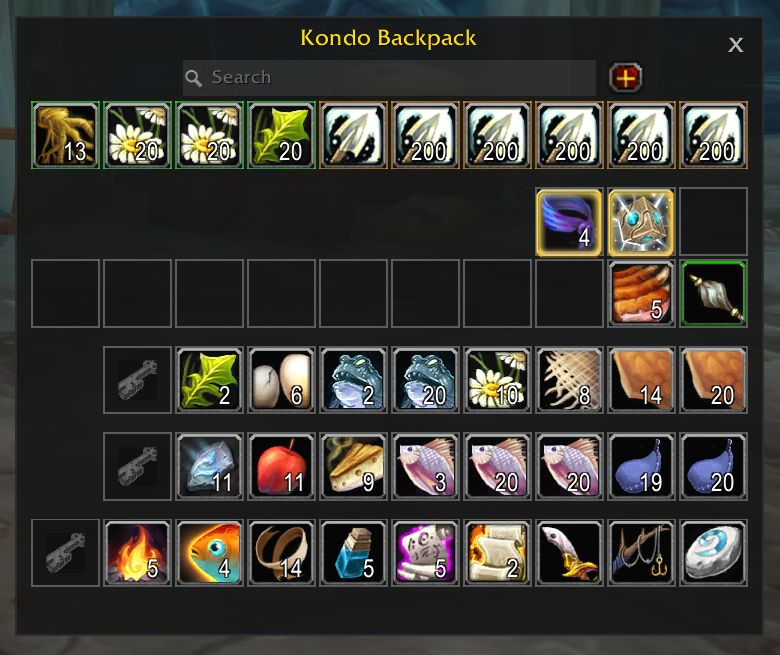
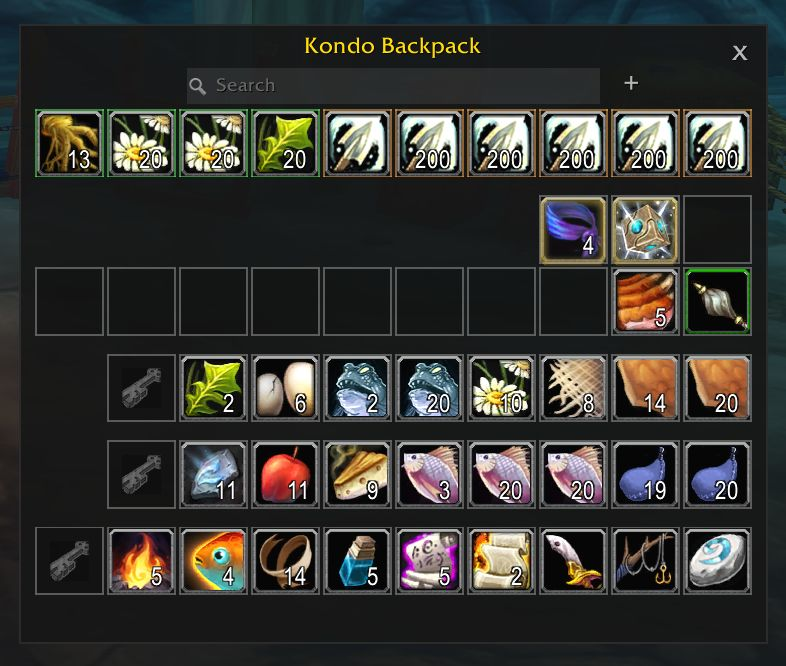
README rewritten for the release: the idea, what you get, settings
Leads with the point of the addon -- it keeps the stock Classic backpack
and gives you better tools to tidy it yourself; nothing moves unless you
move it, no rules, no automation. Lists the shipped features (stock
replacement, special-bag row and tints, drop guidance, quest pulse,
search, two themes, Edit Mode, combat-safe cells), the short settings
table, slash commands, and marks the bank as not yet touched.

diff --git a/README.md b/README.md
@@ -4,18 +4,44 @@
 |---|---|
 | ![KondoBags, classic theme: the stock bag look, incoming grid above, a Keep row led by a lock cell below](Assets/KondoBags_Screenshot_Classic.jpg) | ![KondoBags, modern theme: flat dark panel, square cells, same grid and Keep row](Assets/KondoBags_Screenshot_Modern.jpg) |
 
-A bag addon for World of Warcraft that organizes your backpack the way a tidy person would, without you writing a single rule.
+A backpack for World of Warcraft that lets you organize your items neatly, the way you would in the real world — or at least the way Marie Kondo would.
 
-The window is the stock bag grid plus **Keep**:
+## The idea
 
-- **Incoming** — everything you loot, drawn exactly where the stock bag would draw it. New loot opens a new cell; nothing already there moves.
-- **Keep** — one or more named rows at the bottom, each led by a lock cell. Drop an item on a lock to keep it; drag it back up to let it go; Shift-drag to choose its spot. Hearthstone starts there.
+Most bag addons organize *for* you: they sort by category, by quality, by rules you write and then forget. KondoBags does the opposite. It keeps the one backpack you already know — the stock Classic grid, same art, same loot order — and gives you **better tools to tidy it yourself**. Nothing moves unless you move it. There are no rules to write and no automation to fight. What you put somewhere stays there.
 
-The `+` button adds another Keep row. Everything the addon remembers about how you sort is **per character**.
+The window is the stock bag plus **Keep**:
 
-Position, scale and column count of the window are handled through **Edit Mode**.
+- **Incoming** — everything you loot, drawn exactly where the stock bag would draw it. New loot fills the next free cell; nothing already there moves.
+- **Keep** — one or more rows at the bottom, each led by a lock cell. Drop an item on a lock to keep it; drag it back up to let it go; hold **Shift** while dragging to choose its exact spot. Your Hearthstone starts there.
 
-KondoBags **replaces** the stock bag windows: `B`, the bag-bar buttons, vendors, mail and the bank all open it. There is no option to keep the stock bags alongside it; disable the addon to get them back.
+The `+` button next to the search box adds another Keep row; right-click a lock to remove one. Everything the addon remembers about how you sort is **per character**, so each character's backpack is its own.
+
+## What you get
+
+- **Replaces the stock bags.** `B`, the bag-bar buttons, vendors, mail, bank and auction house all open KondoBags; the Blizzard bag windows never show. No option to run both — disable the addon to get the stock bags back.
+- **Special bags in their own row.** Quiver, ammo pouch, herb, soul, enchanting, mining and other profession bags are drawn as one row above your items, with a colour tint per bag type. Empty cells show the equipped bag's own icon (or the item-type art, your choice).
+- **Drop guidance.** While you carry an item, special-bag cells that will not take it show a circle-X; occupied ones dim. General cells accept anything and are never marked.
+- **Quest items stand out.** Quest items get the stock yellow border (and the `!` for quest starters), gently pulsing so they catch the eye — on Classic Era too, where the stock bags hide it.
+- **Search** that dims everything but the match.
+- **Two themes.** *Classic* is the stock backpack look of whatever client you are on; *Modern* is a flat dark panel with square cells. Same grid, same Keep.
+- **Edit Mode.** Position, scale and column count live in Blizzard's Edit Mode (drag the frame; drag its corner grip to set columns). The window opens where the stock bags open on a fresh install.
+- **Combat-safe.** Item cells are Blizzard's own secure buttons, so right-click to use, drag, split, sell and trade all work in combat exactly as they do in the stock bags.
+
+## Settings
+
+Kept deliberately short. `Esc` › Options › AddOns › **Kondo Bags**, or `/kondo options`.
+
+| Setting | Where |
+|---|---|
+| Theme: Classic / Modern | Settings |
+| Tint special-bag slots by bag type | Settings |
+| Empty special-bag slots show the equipped bag's icon / item-type art | Settings |
+| Lock window position | Settings and the Edit Mode dialog |
+| Window position, scale, columns | Edit Mode |
+| Reset all settings (with confirm) | Settings, or `/kondo reset` |
+
+`/kondo` toggles the window. `/kondo status` prints version, provider and a summary of your bags.
 
 ## Clients
 
@@ -23,7 +49,7 @@ Classic Era / Hardcore and WoW: Forever are the tested targets. Other flavours a
 
 ## Status
 
-Alpha. See [`SPECS/00_KondoBags_Core.md`](SPECS/00_KondoBags_Core.md) for the design and milestone plan and [`SPECS/01_Stock_Bag_Replacement.md`](SPECS/01_Stock_Bag_Replacement.md) for how the stock bags are replaced. Current phase: **Phase L — live bags, step 5 (stock replacement)**.
+Alpha, in daily use by the author on Forever. See [`SPECS/00_KondoBags_Core.md`](SPECS/00_KondoBags_Core.md) for the design and [`SPECS/01_Stock_Bag_Replacement.md`](SPECS/01_Stock_Bag_Replacement.md) for how the stock bags are replaced. Bank support is planned; nothing here touches the bank yet.
 
 ## Repository layout
 
